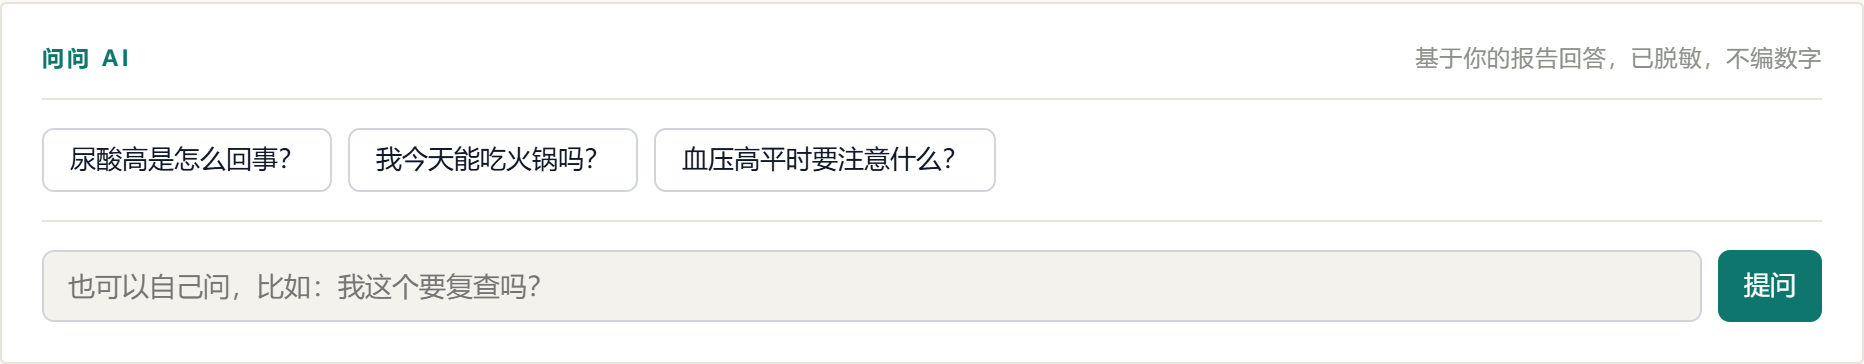
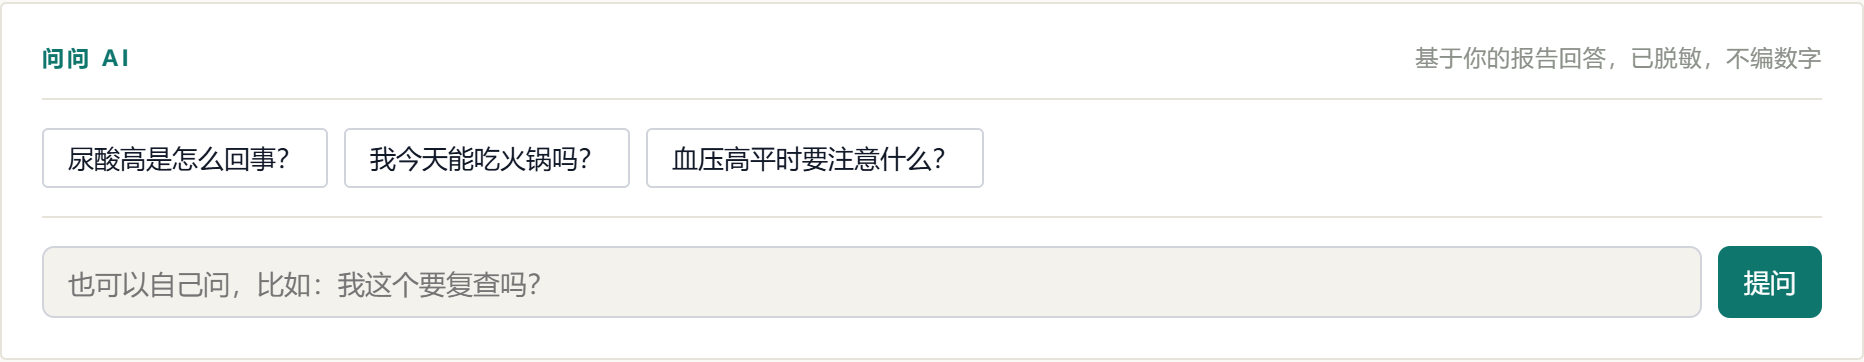
style(ui): 收掉最后三处"AI 感"——胶囊、渐变、大圆角
1) .chat-ask（快捷问题）
   圆角 6px → 3px，padding 0/13 → 6px 12px，高度改由 padding 决定（≈31px）
   白底 / 1px #D1D5DB 边 / #111827 字 / 13px，与主按钮同形状只是矮一档
   注：999px 胶囊在上一版就已改掉，这次是按新给的数值再收一档

2) .panel-warm（给爸妈说的话）
   linear-gradient(180deg,#fdfaf4,#fbf6ec) → 纯色 #FBF6EC，边框 #ECDFCB 不变
   全站至此已无任何 CSS 渐变（已用 getComputedStyle 全 DOM 扫描确认）

3) .seg（早/午/晚/加餐、血压/血糖/体重、男/女）
   内块圆角 5px → 3px，外框 --btn-r → 3px
   未选中：白底 + var(--ink-2) 灰字；选中：#24423a 深墨绿底白字
   容器加 gap: 2px，避免相邻白底块粘成一整条

连带修复（本次改动暴露出来的）
- .segmented 加 width: fit-content
  父级 .field 是纵向 flex，默认 stretch 会把它拉满整行；以前内部透明看不出来，
  白底 + 边框之后右边会露出一大块空框，现在按内容宽度收缩

未动 .btn-primary / .btn-ghost（按要求保持）、未动任何判定逻辑与接口。
验证：15 项计算样式断言全绿，static/check.py 通过，0 console error。

diff --git a/static/style.css b/static/style.css
@@ -190,7 +190,7 @@ p { margin: 0; }
   border-bottom: 1px solid var(--line);
 }
 .panel-narrow { max-width: 620px; }
-.panel-warm { background: linear-gradient(180deg, #fdfaf4, #fbf6ec); border-color: #ecdfcb; }
+.panel-warm { background: #fbf6ec; border-color: #ecdfcb; }
 
 .label {
   font-size: 11px; font-weight: 650; letter-spacing: .14em;
@@ -241,21 +241,25 @@ p { margin: 0; }
 .field-hint { font-size: 12px; color: var(--ink-3); }
 .chosen-file { font-size: 13.5px; max-width: 340px; word-break: break-all; }
 
-/* 分段选择器：外框 36px 高（和按钮同一条基线），内块 30px，圆角外 6 内 5 */
+/* 分段选择器：外框 36px 高（和按钮同一条基线），内块 30px，圆角一律 3px。
+   未选中白底灰字、选中深墨绿底白字 —— 分段器靠底色翻转分状态，不再靠形状。 */
 .segmented {
-  display: inline-flex; align-items: center;
+  display: inline-flex; align-items: center; gap: 2px;
   height: var(--btn-h); padding: 2px;
+  /* 父级 .field 是纵向 flex，默认 stretch 会把它拉满整行，
+     白底 + 边框之后那段空白就露出来了，所以按内容宽度收缩 */
+  width: fit-content;
   background: var(--surface-2);
-  border: 1px solid var(--line); border-radius: var(--btn-r);
+  border: 1px solid var(--line); border-radius: 3px;
 }
 .seg {
-  border: 0; background: transparent; cursor: pointer;
+  border: 0; background: #fff; cursor: pointer;
   font: inherit; font-size: 13px; color: var(--ink-2);
-  height: 30px; padding: 0 15px; border-radius: 5px;
+  height: 30px; padding: 0 15px; border-radius: 3px;
   transition: background-color .14s, color .14s;
 }
-.seg:hover:not(.is-active) { color: var(--ink); background: #ebe9e2; }
-.seg.is-active { background: var(--btn-primary); color: #fff; font-weight: 500; }
+.seg:hover:not(.is-active) { color: var(--ink); background: #f9fafb; }
+.seg.is-active { background: #24423a; color: #fff; font-weight: 500; }
 
 .form-actions {
   display: flex; flex-wrap: wrap; gap: var(--btn-gap); align-items: center;
@@ -461,14 +465,14 @@ p { margin: 0; }
    气泡的圆角和背景只会让本来就窄的内容区更挤。
    改用「问」字前缀 + 细线分隔，和逐项结果、红线卡片是同一套语言。 */
 .chat-quick { display: flex; flex-wrap: wrap; gap: var(--btn-gap); }
-/* 快捷问题也是按钮：白底细边、6px 圆角、32px 高（比主按钮矮一档，因为它是"建议"不是"动作"）。
-   原先的 999px 胶囊是页面里唯一的全圆角，正是最像模板的一处。 */
+/* 快捷问题：和主按钮同形状的方形 —— 3px 圆角、白底、1px 细灰边、黑字、6px 12px 内边距。
+   尺寸由 padding 决定（约 31px 高），比主按钮矮一档，因为它是"建议"不是"动作"。 */
 .chat-ask {
   display: inline-flex; align-items: center;
-  font: inherit; font-size: 13px; font-weight: 400; line-height: 1;
-  height: 32px; padding: 0 13px; cursor: pointer;
+  font: inherit; font-size: 13px; font-weight: 400; line-height: 1.3;
+  padding: 6px 12px; cursor: pointer;
   border: 1px solid var(--btn-border); background: #fff;
-  color: var(--btn-text); border-radius: var(--btn-r);
+  color: var(--btn-text); border-radius: 3px;
   transition: border-color .12s, color .12s, background-color .12s;
 }
 .chat-ask:hover:not(:disabled) {
